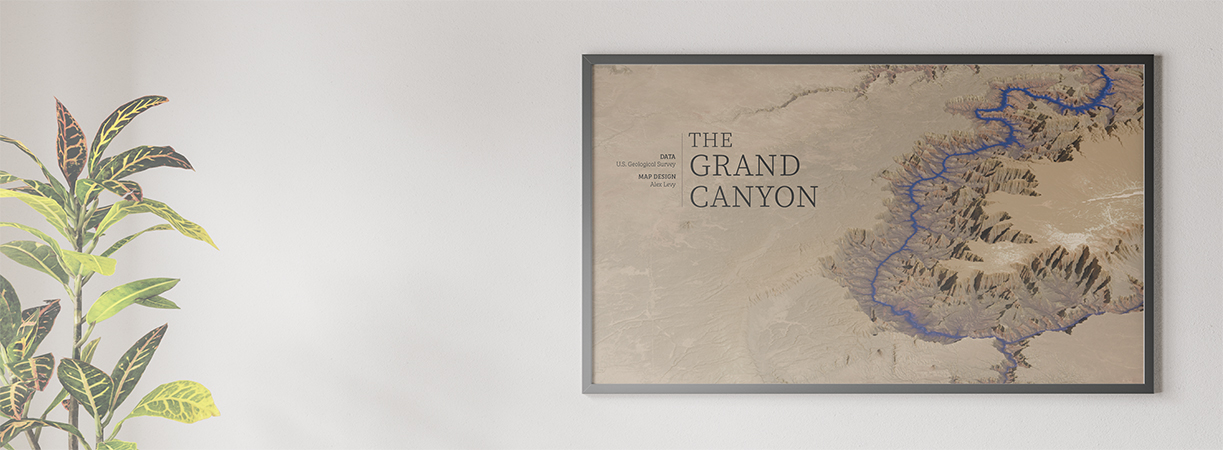
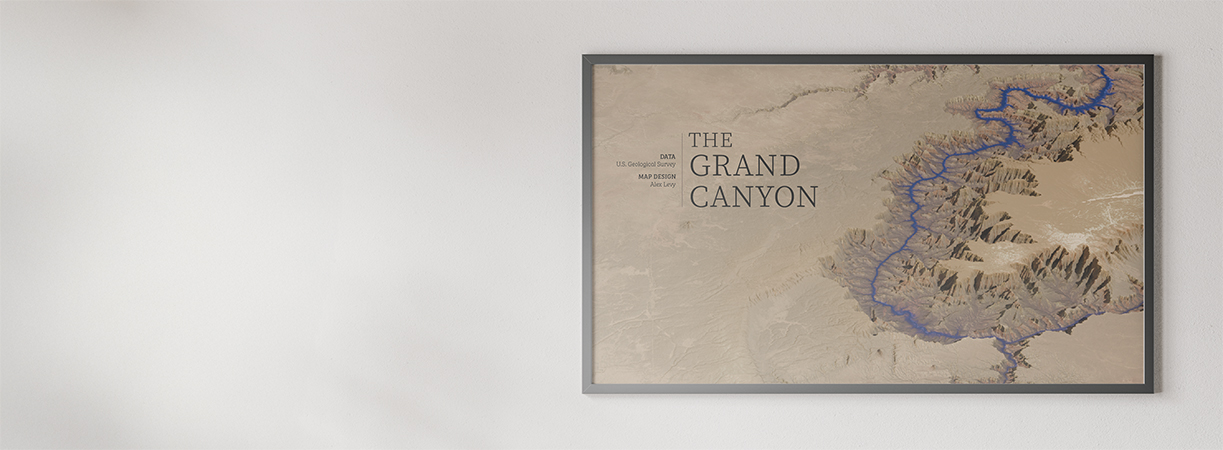
removed hero gradient

Changed region(s): [[0.0, 0.1867, 0.1864, 1.0]]

diff --git a/app/components/hero-section.module.scss b/app/components/hero-section.module.scss
@@ -41,14 +41,13 @@
 }
 
 /* === GRADIENT OVERLAY === */
-.hero_overlay {
-  width: 100%;
-  height: 100%;
-  z-index: 1;
-  // background: linear-gradient(to right, rgba(255, 255, 255, 1), rgba(255, 255, 255, 0));
-  background: linear-gradient(to right, #AC977B 0%, rgba(255, 255, 255, 0));
-  pointer-events: none;
-}
+// .hero_overlay {
+//   width: 100%;
+//   height: 100%;
+//   z-index: 1;
+//   background: linear-gradient(to right, #AC977B 0%, rgba(255, 255, 255, 0));
+//   pointer-events: none;
+// }
 
 /* === TEXT ON TOP === */
 .hero_text {
@@ -59,7 +58,7 @@
   text-align: left;         // Optional: make sure text doesn't center
   display: flex;
   flex-direction: column;
-  gap: 1.5rem;
+  gap: 2rem;
   // margin-bottom: 10%;
 }
 

diff --git a/app/components/HeroSection.tsx b/app/components/HeroSection.tsx
@@ -1,6 +1,8 @@
 import styles from "./hero-section.module.scss";
 import Image from "next/image";
 
+import Button from "./Button";
+
 export default function HeroSection() {
   return (
     <div className={styles.hero}>
@@ -17,6 +19,8 @@ export default function HeroSection() {
           <h1>
             Mapping <b className={styles.bold}>impactful</b> stories and <i>striking</i> landscapes
           </h1>
+          <Button>Request custom map</Button>
+
           {/* <p>
             I design maps that tell unique stories and provide normally unseen points of view, from
             mapping the relationship between voting and education, to visualizing the terrain of the
